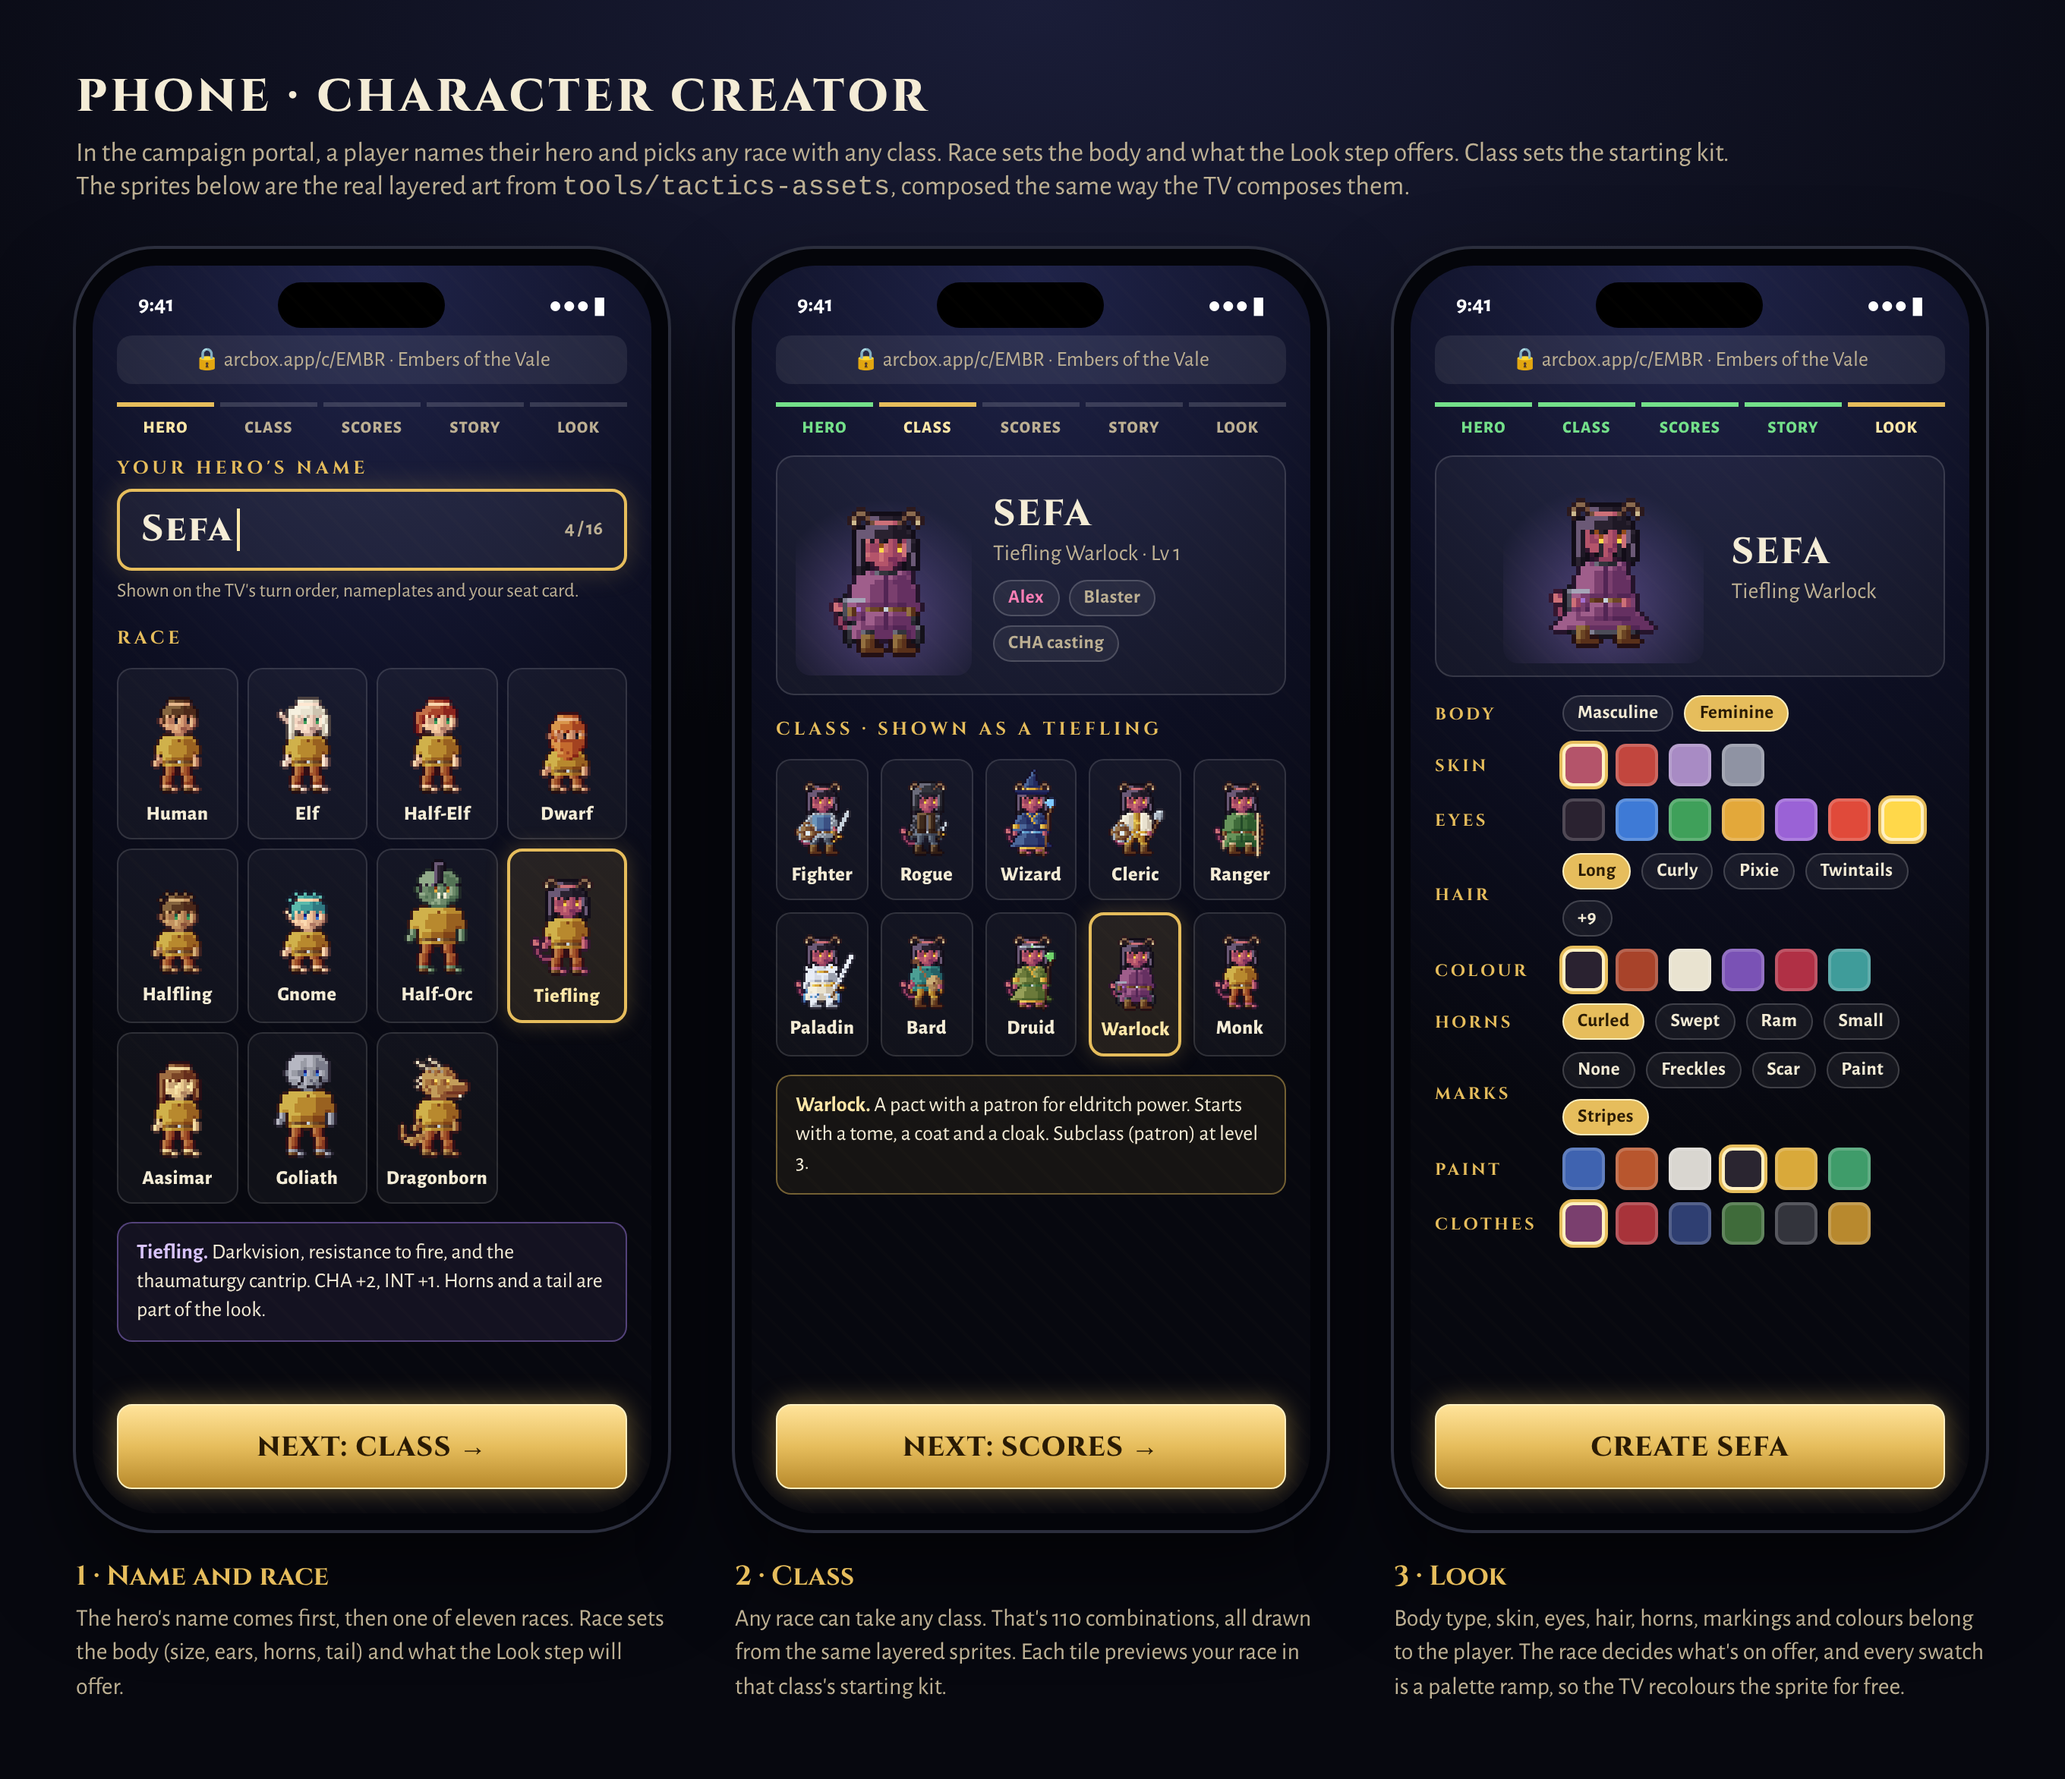
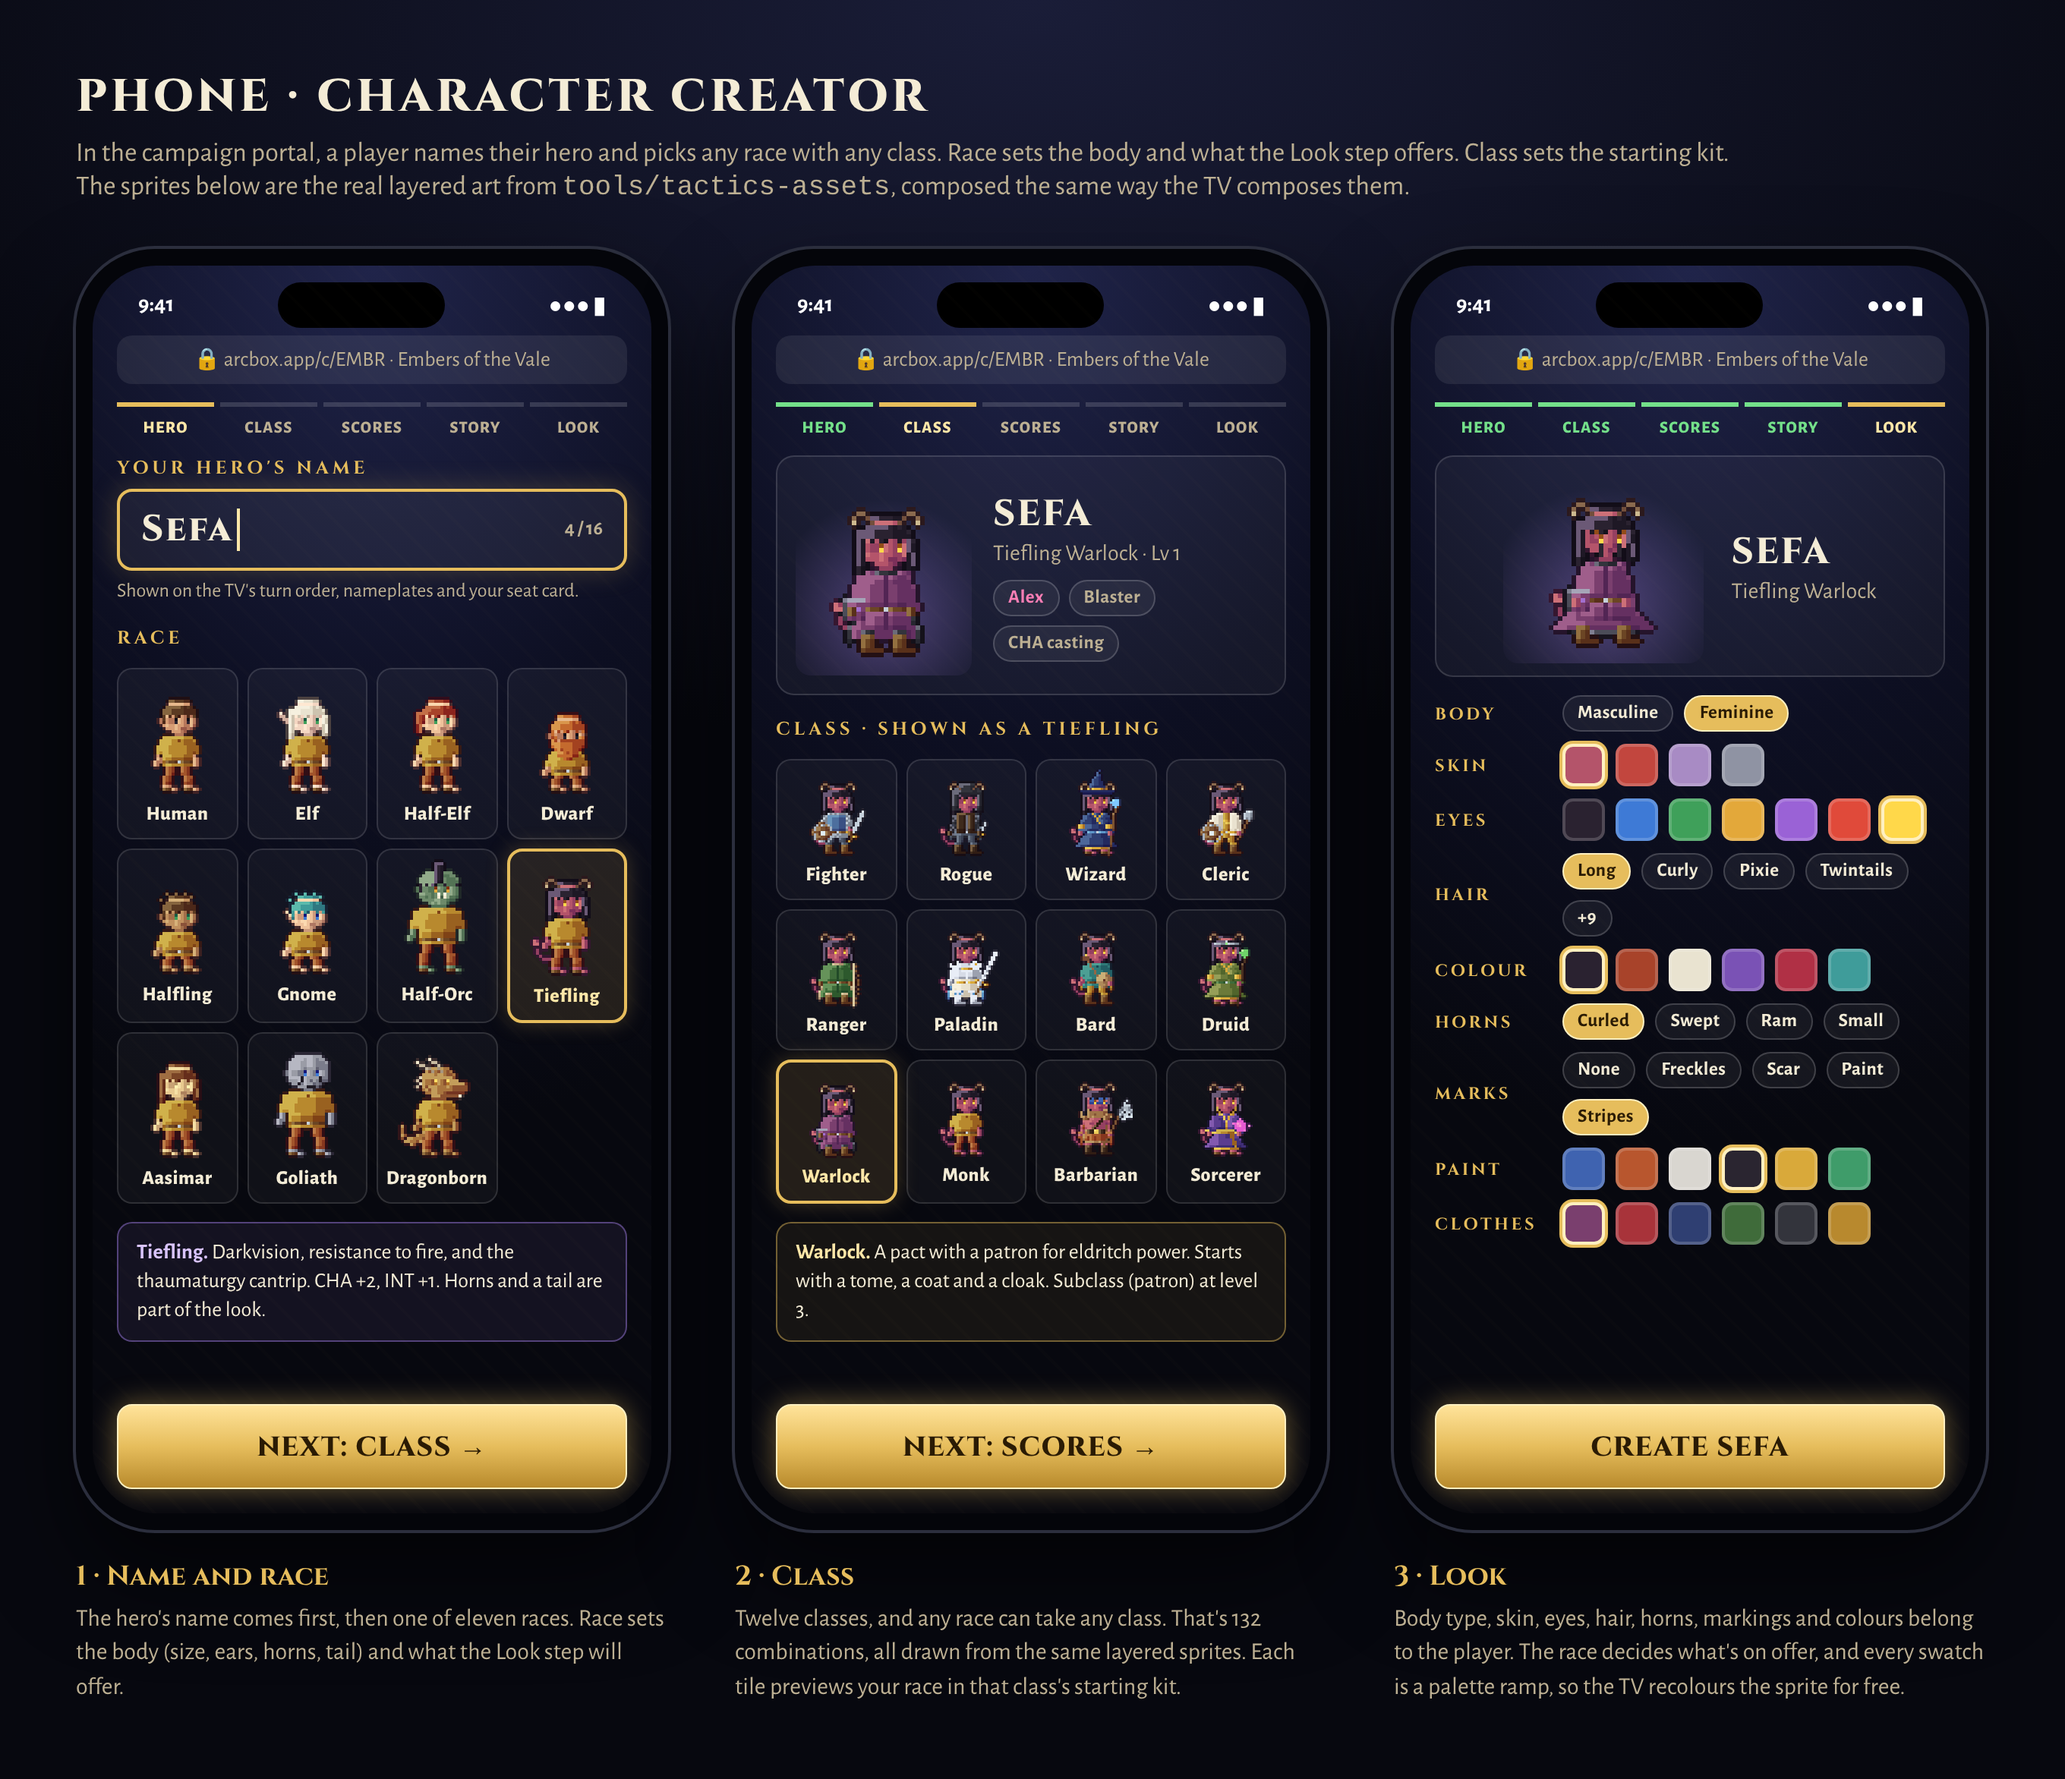
docs(mockups): creator class picker shows all twelve classes
The race x class atlas is now 11 x 12; the class step lists Barbarian and
Sorcerer in a four-column grid. Re-rendered with shoot.js.

Claude-Session: https://claude.ai/code/session_01UZNTTVCBKLVWRDHcmTGbSi

Changed region(s): [[0.375, 0.436, 0.625, 0.7163], [0.3438, 0.9032, 0.625, 0.9654]]

diff --git a/docs/superpowers/mockups/tactics/07-phone-creator.html b/docs/superpowers/mockups/tactics/07-phone-creator.html
@@ -12,7 +12,7 @@
      class, 32x40 per cell), written by tools/tactics-assets/build.py. */
   .spr { --z: 2; width: calc(32px * var(--z)); height: calc(40px * var(--z)); flex: none;
     background: url(assets/race-class.png) no-repeat; image-rendering: pixelated;
-    background-size: calc(320px * var(--z)) calc(440px * var(--z));
+    background-size: calc(384px * var(--z)) calc(440px * var(--z));
     background-position: calc(-32px * var(--z) * var(--c)) calc(-40px * var(--z) * var(--r)); }
   .spr.party { background-image: url(assets/party.png); background-size: calc(192px * var(--z)) calc(40px * var(--z)); }
   .steps { grid-template-columns: repeat(5, 1fr); }
@@ -94,7 +94,7 @@
           <div><b>SEFA</b><span>Tiefling Warlock · Lv 1</span>
             <div class="chips" style="margin-top:8px"><span class="chip" style="color:var(--p6)">Alex</span><span class="chip">Blaster</span><span class="chip">CHA casting</span></div></div></div>
         <span class="sect">CLASS · SHOWN AS A TIEFLING</span>
-        <div class="pick r5">
+        <div class="pick r4">
           <div class="opt2"><div class="spr" style="--z:1.5;--r:7;--c:0"></div><b>Fighter</b></div>
           <div class="opt2"><div class="spr" style="--z:1.5;--r:7;--c:1"></div><b>Rogue</b></div>
           <div class="opt2"><div class="spr" style="--z:1.5;--r:7;--c:2"></div><b>Wizard</b></div>
@@ -105,12 +105,14 @@
           <div class="opt2"><div class="spr" style="--z:1.5;--r:7;--c:7"></div><b>Druid</b></div>
           <div class="opt2 sel"><div class="spr" style="--z:1.5;--r:7;--c:8"></div><b>Warlock</b></div>
           <div class="opt2"><div class="spr" style="--z:1.5;--r:7;--c:9"></div><b>Monk</b></div>
+          <div class="opt2"><div class="spr" style="--z:1.5;--r:7;--c:10"></div><b>Barbarian</b></div>
+          <div class="opt2"><div class="spr" style="--z:1.5;--r:7;--c:11"></div><b>Sorcerer</b></div>
         </div>
         <div class="race-note" style="background:rgba(230,189,92,.07);border-color:rgba(230,189,92,.45)"><b style="color:#ffe7a8">Warlock.</b> A pact with a patron for eldritch power. Starts with a tome, a coat and a cloak. Subclass (patron) at level 3.</div>
         <div class="btn gold" style="margin-top:auto">NEXT: SCORES →</div>
       </div>
     </div></div>
-    <div class="caption"><b>2 · Class</b><span>Any race can take any class. That's 110 combinations, all drawn from the same layered sprites. Each tile previews your race in that class's starting kit.</span></div>
+    <div class="caption"><b>2 · Class</b><span>Twelve classes, and any race can take any class. That's 132 combinations, all drawn from the same layered sprites. Each tile previews your race in that class's starting kit.</span></div>
   </div>
 
   <!-- 3. Look -->

diff --git a/docs/superpowers/mockups/tactics/README.md b/docs/superpowers/mockups/tactics/README.md
@@ -17,7 +17,7 @@ writes from the real character layers for screen 07. The real game builds these 
 | [04 · Phone battle](04-phone-battle.png) | Your turn (action economy and actions), targeting (cycle targets or move a free cursor on the TV's diagonal grid), and waiting (turn queue, reaction, sheet) |
 | [05 · Phone party and portal](05-phone-party.png) | Party vote, the point-buy character creator, choosing a subclass after a missed week, and trading |
 | [06 · Phone joining each week](06-phone-join.png) | One-tap "Continue as…" for a remembered phone, the "Who are you?" roster for a new one, and "Pick your seat" mid-game to take back an offline character (Platform v2 §3.1–3.2) |
-| [07 · Phone character creator](07-phone-creator.png) | Naming the hero, then any race with any class (11 × 10), then the look: skin, hair, horns and colours, limited to what the race offers. Uses the real sprites from `tools/tactics-assets` (`assets/race-class.png`) |
+| [07 · Phone character creator](07-phone-creator.png) | Naming the hero, then any race with any class (11 × 12), then the look: skin, hair, horns and colours, limited to what the race offers. Uses the real sprites from `tools/tactics-assets` (`assets/race-class.png`) |
 
 Sample party: Kara (Jess), Aldric (Dave, away this session), Wren (Priya), Ilyra (Sam, leader this
 session) and Tamsin (Marcus). Sefa (Alex) is a new recruit in the creator.
